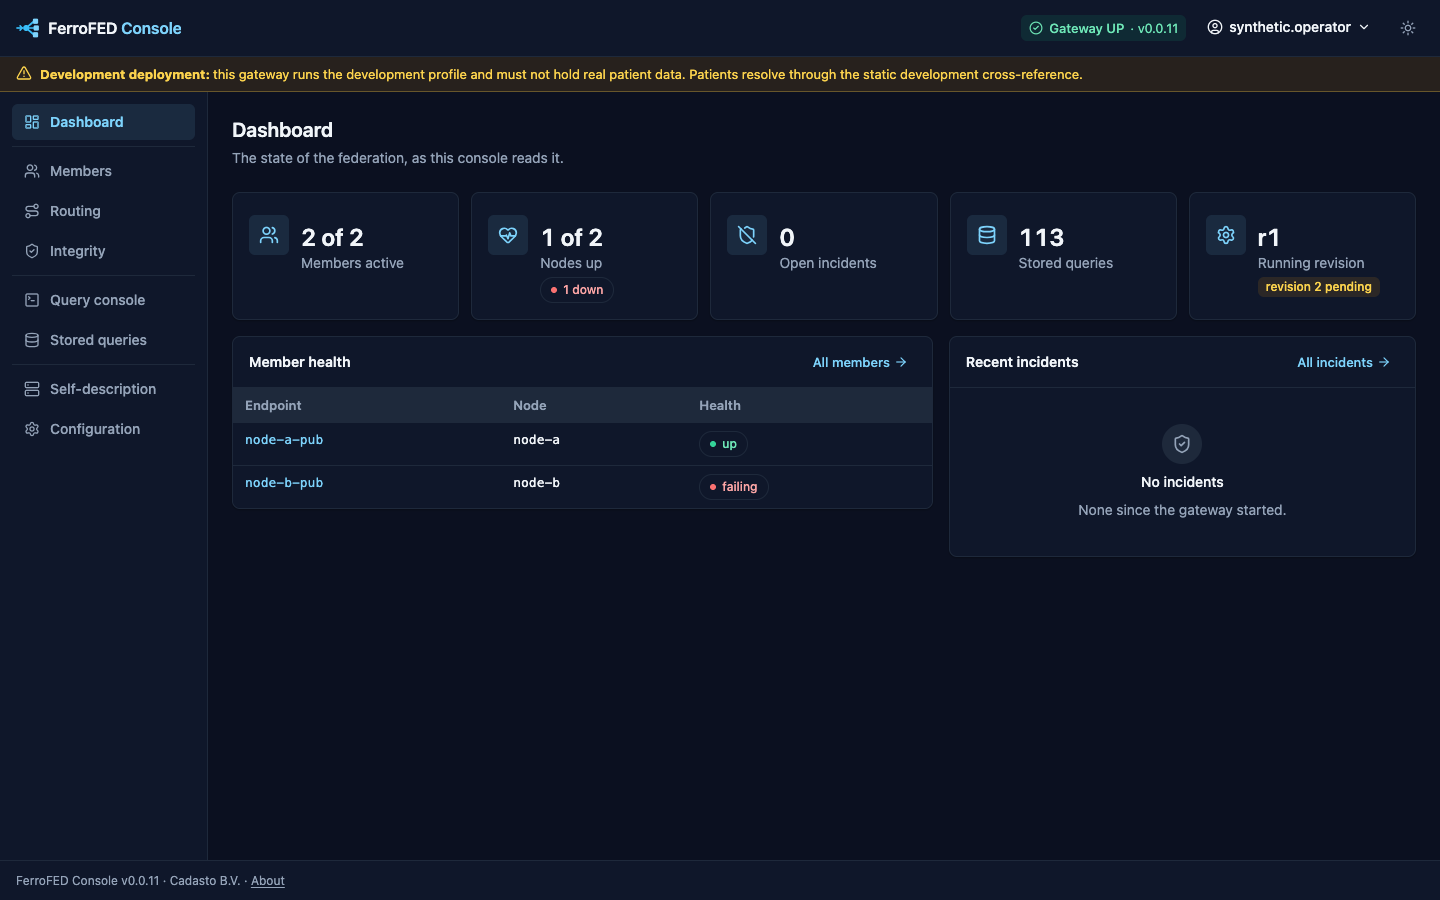
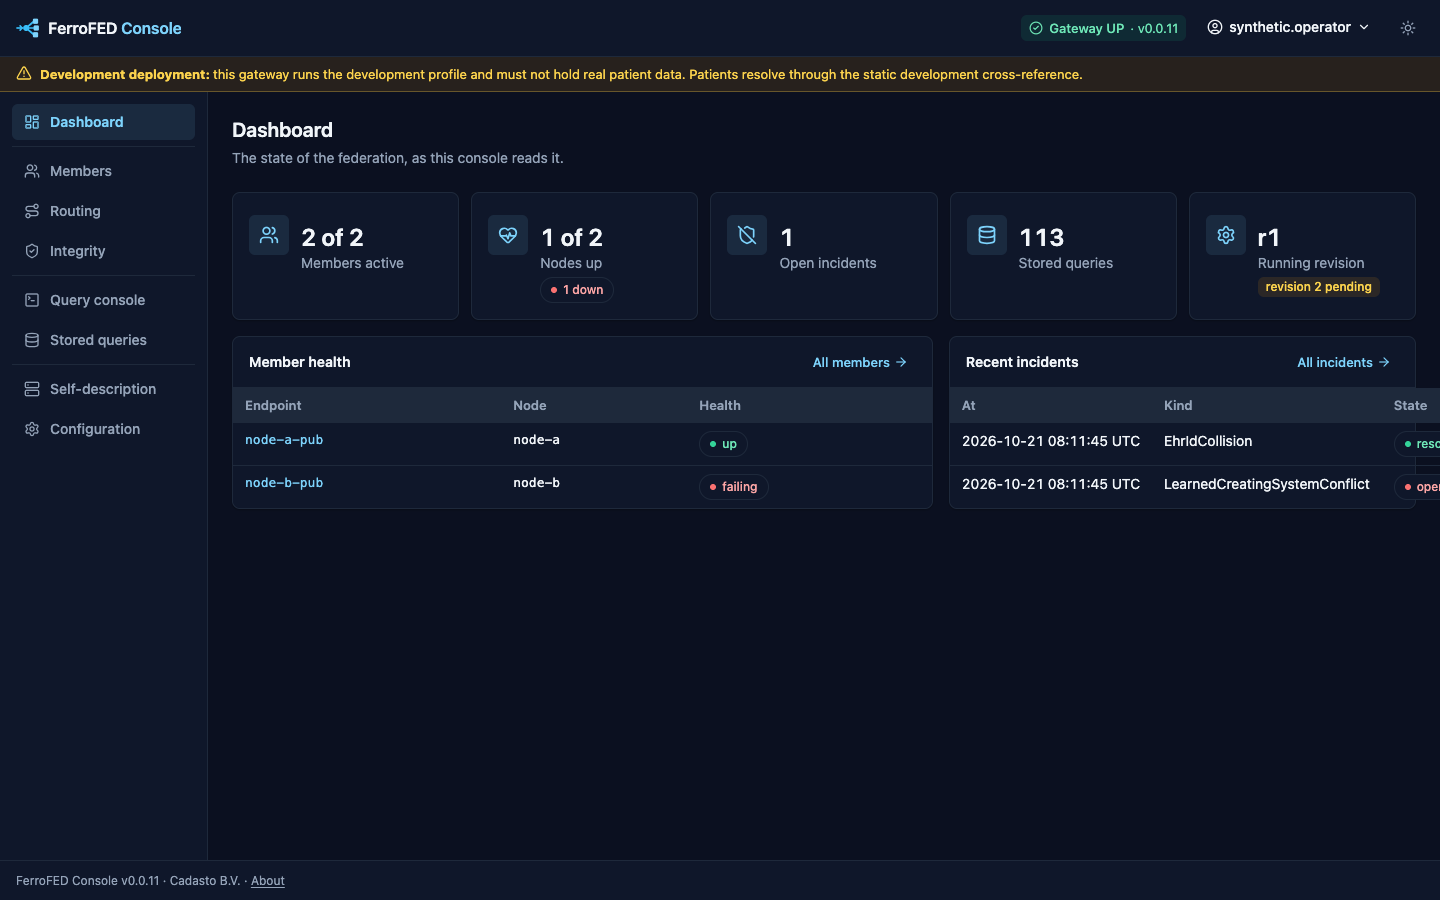
test(testkit): give the screenshot gateway an integrity history, so the captures show the timestamp rows (#1154) (#1208)
Before the capture, the screenshot test emits an open creating_system_id conflict and an ehr_id collision into the gateway it runs in process, and records the operator's clear of that collision. The dashboard and Integrity images are taken again through the capture, light and dark, and the book's alt text says what they show; the other images the capture rewrote are left as they are.

diff --git a/tools/ferrofed-testkit/tests/it/journeys/screenshots.rs b/tools/ferrofed-testkit/tests/it/journeys/screenshots.rs
@@ -28,6 +28,9 @@ use std::collections::BTreeSet;
 use std::error::Error;
 use std::path::{Path, PathBuf};
 
+use ferrofed_registry::id::NodeId;
+use ferrofed_registry::incident::{Detection, Incident};
+use ferrofed_registry::operator::ClearedEhrId;
 use ferrofed_testkit::mock::Server;
 use serde::Deserialize;
 use serde_json::json;
@@ -319,6 +322,32 @@ const HISTORY: &str = r#"{"items":[
 const DIFF_2: &str = r#"{"from":1,"to":2,"changes":[
     {"key":"federation.per_node_timeout_ms","change":"changed","from":"2000","to":"2500"}]}"#;
 
+/// The synthetic `ehr_id` the integrity history names, a bare UUID.
+const COLLIDING: &str = "3333cccc-3333-4333-8333-333333333333";
+
+/// Gives the gateway, which runs in this process, an integrity history the
+/// dashboard and the Integrity view draw with its timestamps: an open
+/// `creating_system_id` conflict, and an `ehr_id` collision the operator's
+/// clear resolved (#1154).
+fn integrity_history() -> Result<(), Box<dyn Error>> {
+    Incident::LearnedCreatingSystemConflict {
+        creating_system_id: "legacy-shared.example.org".parse()?,
+        first: "node-a-pub".parse()?,
+        second: "node-b-pub".parse()?,
+    }
+    .emit();
+    let ehr_id = COLLIDING.parse()?;
+    Incident::EhrIdCollision {
+        ehr_id,
+        detection: Detection::AskAll,
+        claimants: vec!["node-a-pub".parse()?, "node-b-pub".parse()?],
+    }
+    .emit();
+    let held = [NodeId::new("node-a")?, NodeId::new("node-b")?];
+    ClearedEhrId::of(&COLLIDING.parse()?, &held, (0, &BTreeSet::new())).record();
+    Ok(())
+}
+
 /// A stub admin listener answering every route the pages read.
 async fn listener() -> Server {
     let listener = Server::start().await;
@@ -579,6 +608,7 @@ async fn the_book_shows_every_console_page_in_light_and_dark() -> Result<(), Box
     std::fs::create_dir_all(root().join(NARROW_IMAGES))?;
     let admin = listener().await;
     let stack = Stack::start_with_admin(&admin.uri()).await?;
+    integrity_history()?;
     with_browser(async |browser| {
         for width in [Width::Wide, Width::Narrow] {
             window(browser, width, HEIGHT).await?;

diff --git a/website/book/src/operate/operator-console.md b/website/book/src/operate/operator-console.md
@@ -286,7 +286,7 @@ A signed-in operator lands on the dashboard: the members active, the nodes
 up, the open incidents, the stored queries and the running revision, with
 each member's health and the recent incidents.
 
-![The dashboard: five tiles reading 2 of 2 members active, 1 of 2 nodes up with 1 down, 0 open incidents, 113 stored queries and running revision r1 with revision 2 pending, over a member health table where node-a-pub is up and node-b-pub is failing, and an empty recent incidents card.](img/console/dashboard.png)
+![The dashboard: five tiles reading 2 of 2 members active, 0 of 2 nodes up and not yet observed, 1 open incident, 113 stored queries and running revision r1 with revision 2 pending, over a member health table where both endpoints are unknown, and a recent incidents card listing a resolved EhrIdCollision and an open LearnedCreatingSystemConflict, each with its time.](img/console/dashboard.png)
 
 [The dashboard in the dark theme](img/console/dashboard-dark.png)
 
@@ -310,7 +310,7 @@ A member's page, `/members/{node}`, shows one node with its endpoints.
 
 ### Integrity
 
-![The integrity page: Open and Resolved tabs with no open incident, the count of each incident kind since the gateway started, all 0, and the form that clears a held ehr_id at one replica or every replica.](img/console/integrity.png)
+![The integrity page: Open and Resolved tabs, the open tab listing a LearnedCreatingSystemConflict with its time and description, the count of each incident kind since the gateway started, a cleared collision with its time, ehr_id and the members that claimed it, and the form that clears a held ehr_id at one replica or every replica.](img/console/integrity.png)
 
 [The integrity page in the dark theme](img/console/integrity-dark.png)
 

diff --git a/changelog.d/1154-screenshot-incident-rows.changed.md b/changelog.d/1154-screenshot-incident-rows.changed.md
@@ -1,0 +1,3 @@
+- The book's dashboard and Integrity screenshots show an open incident, a
+  resolved one and a cleared collision, each with its time, so the visual
+  review covers the console's timestamp rows (#1154).
